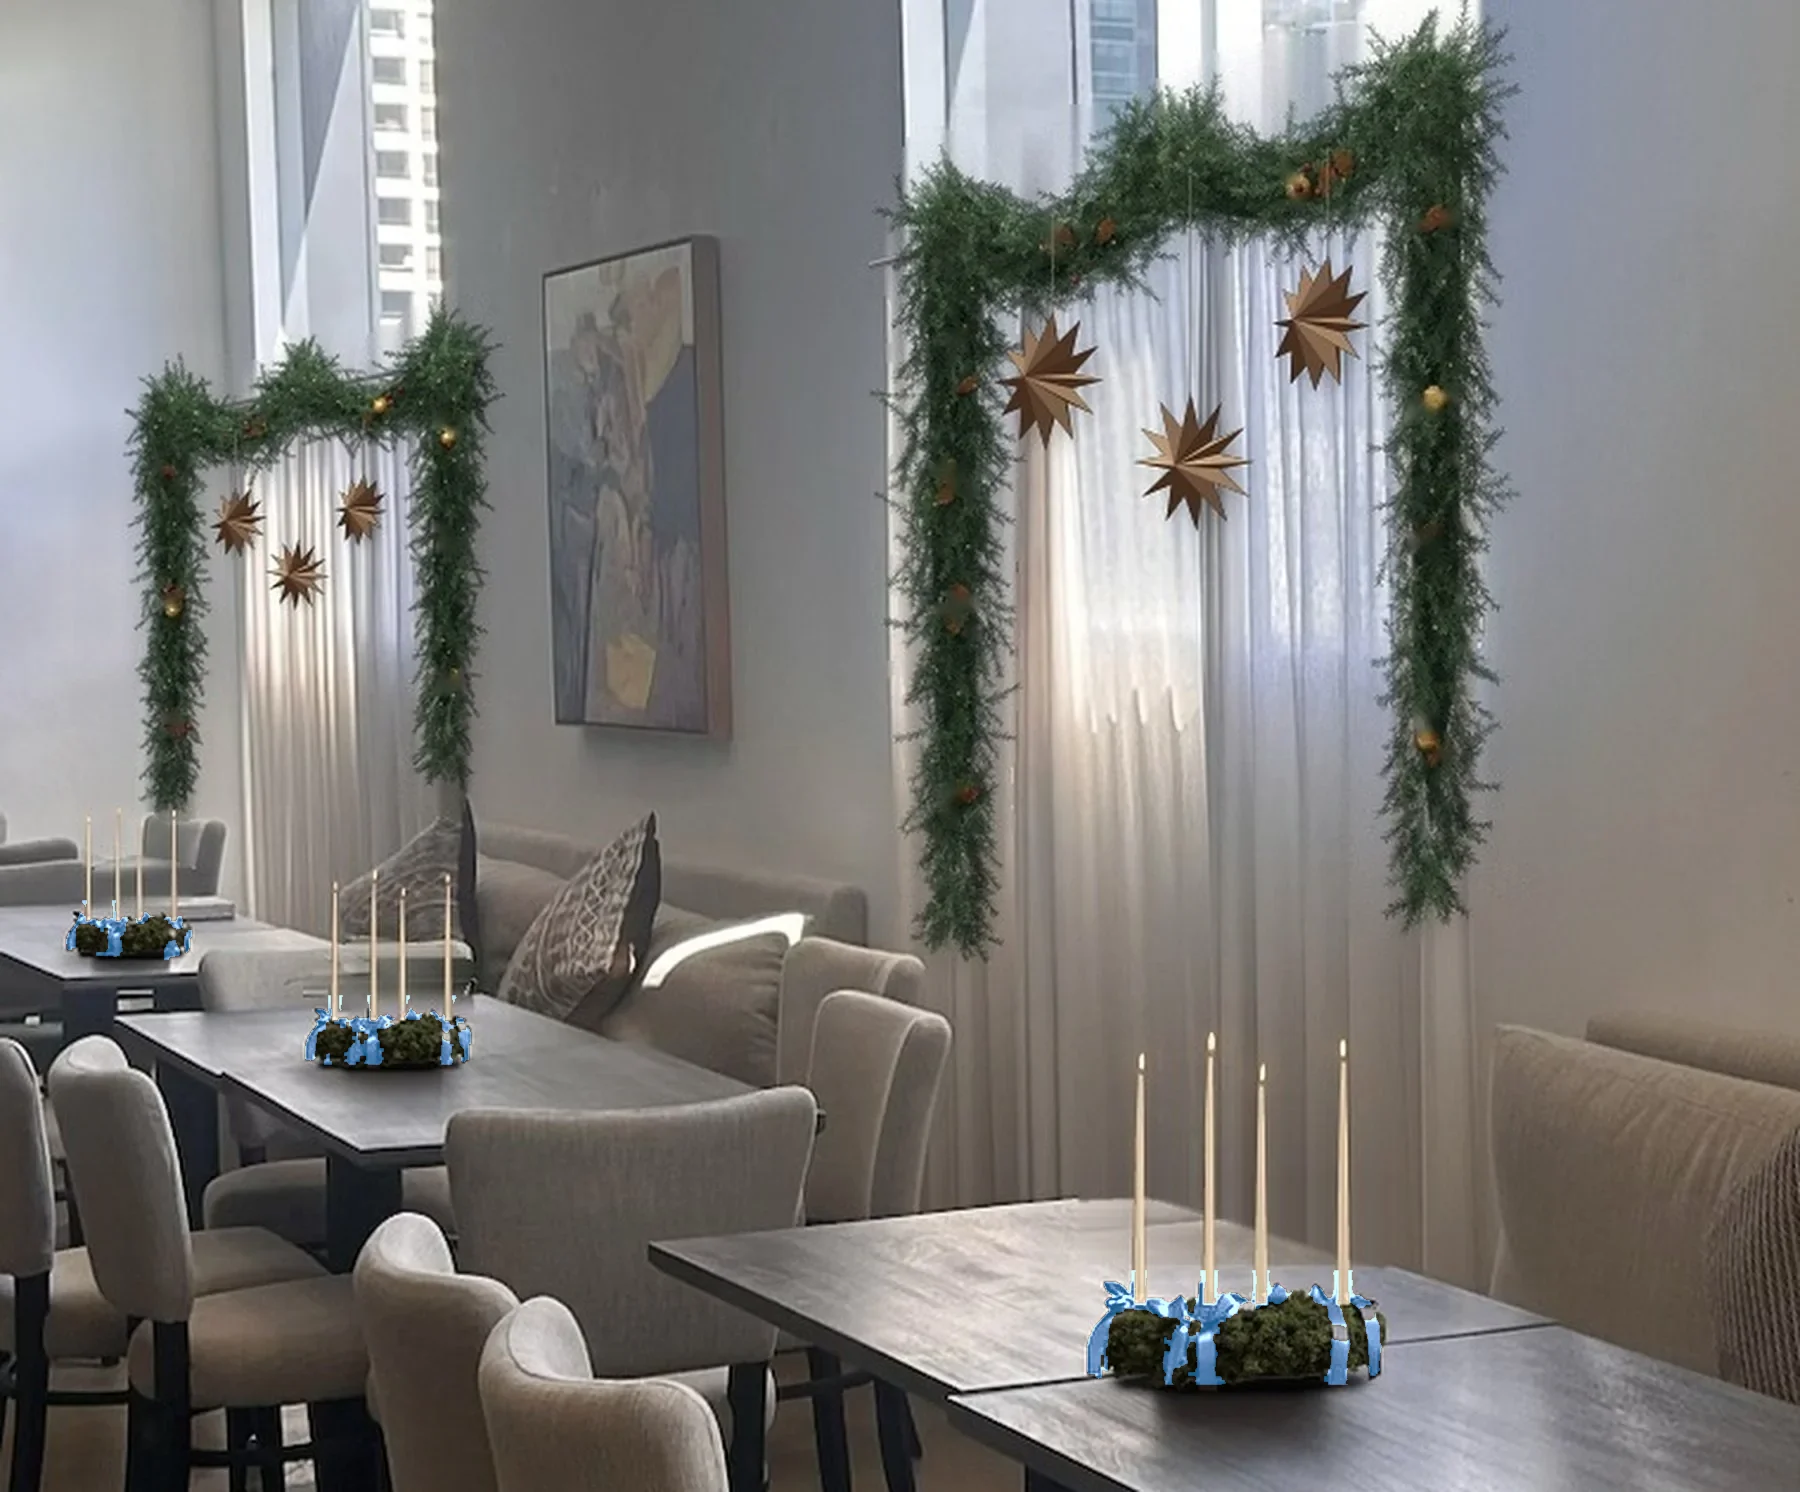
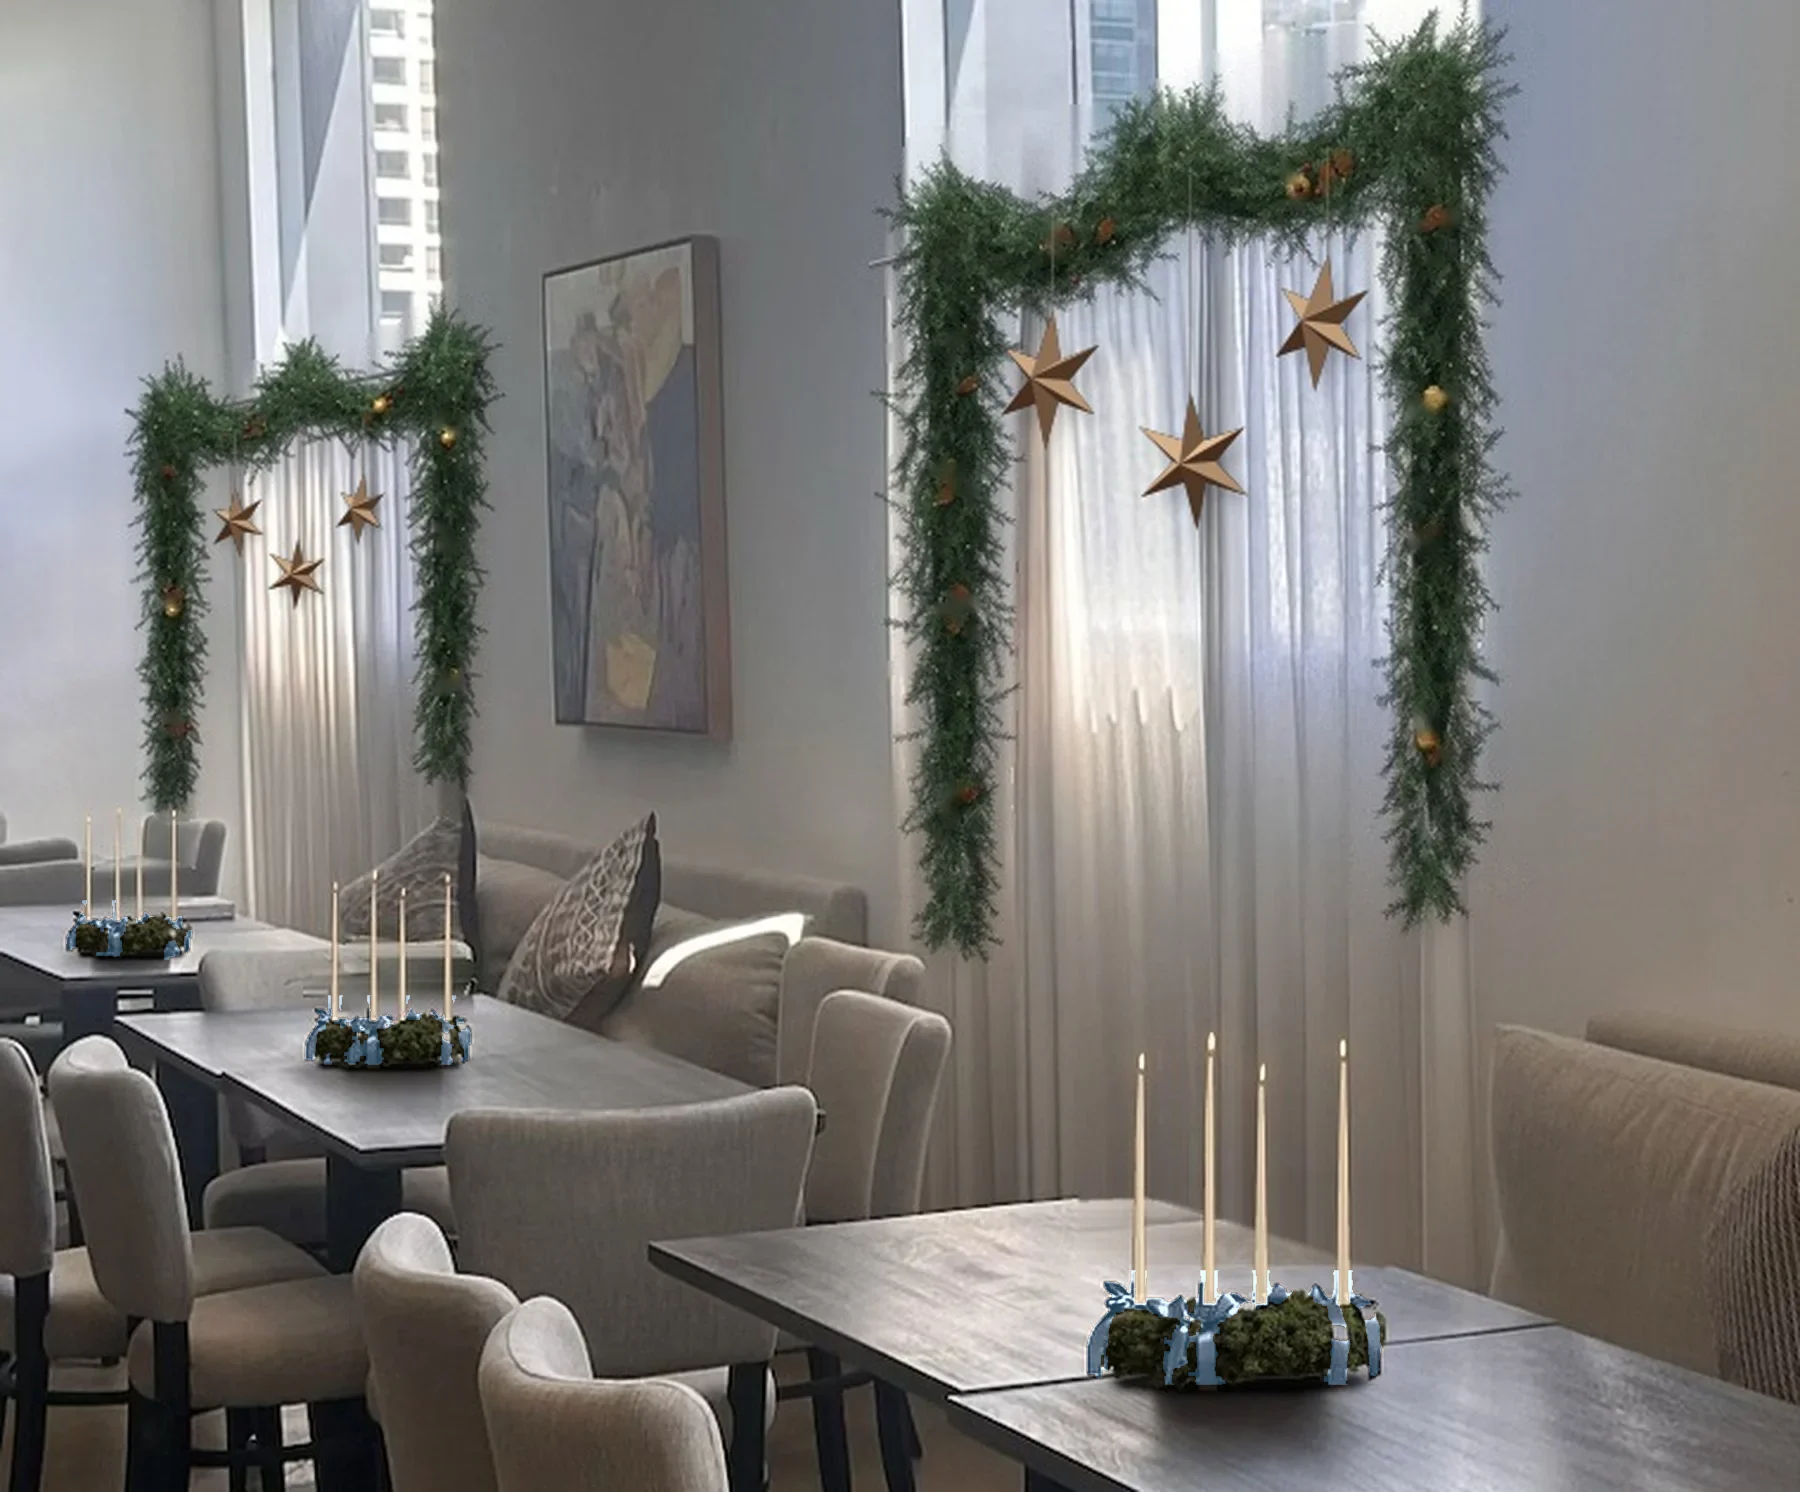
Kaffi concept: longer chocolate layer, blue/chocolate tree ribbons, dusty blue centrepieces, six-point stars
Claude-Session: https://claude.ai/code/session_01GH687m9j9GhRmR5ivH2vMn

diff --git a/kaffi-concept-m7usbotbtu/index.html b/kaffi-concept-m7usbotbtu/index.html
@@ -94,12 +94,12 @@ section.render .wrap{padding-block:clamp(36px,6vw,64px);display:grid;gap:20px}
 
 <section class="render" id="lounge"><div class="wrap">
 <div class="rhead"><span class="no">02</span><h2>Lounge tree and window garland</h2></div>
-<div class="frame"><img src="img/tree.webp" width="1800" height="1350" loading="lazy" alt="Lounge corner with a dressed Christmas tree, powder blue and chocolate velvet ribbon drops, pastel and gold ornaments, kraft-wrapped gifts and cedar garlands across the windows"></div>
+<div class="frame"><img src="img/tree.webp" width="1800" height="1350" loading="lazy" alt="Lounge corner with a dressed Christmas tree, powder blue and chocolate velvet ribbon bows, pastel and gold ornaments, kraft-wrapped gifts and cedar garlands across the windows"></div>
 </div></section>
 
 <section class="render" id="dining"><div class="wrap">
 <div class="rhead"><span class="no">03</span><h2>Dining windows and table centrepieces</h2></div>
-<div class="frame"><img src="img/windows.webp" width="1800" height="1492" loading="lazy" alt="Dining area with cedar garlands framing two windows, hanging kraft paper stars, and moss candle wreaths tied with powder blue velvet ribbon and taper candles on the tables"></div>
+<div class="frame"><img src="img/windows.webp" width="1800" height="1492" loading="lazy" alt="Dining area with cedar garlands framing two windows, hanging six-point kraft paper stars, and moss candle wreaths tied with powder blue velvet ribbon and taper candles on the tables"></div>
 <p class="note">If moss is not available in the quantity needed, below is the alternative table centrepiece.</p>
 <div class="alt"><img src="img/alt-centrepiece.webp" width="829" height="1100" loading="lazy" alt="Reference: cedar and dried stems in a clear glass vase, dressed with gold glass ornaments and long dark velvet ribbons"><div><span>Alternative centrepiece</span><h3>Should moss be in short supply, we would love to style your tables in this spirit instead.</h3><p><em>Reference image only, for inspiration.</em></p></div></div>
 </div></section>
